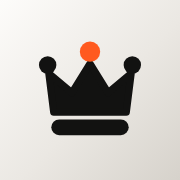
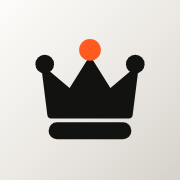
Biểu tượng app vương miện khi cài web ra màn hình chính
- Thêm manifest.webmanifest: tên, mở toàn màn hình, biểu tượng PNG 192/512 và bản maskable cho Android
- Vẽ lại apple-touch-icon và các icon PNG từ cùng logo R3 bằng tools/icons/make-icons.mjs
- index.html gắn link manifest

Claude-Session: https://claude.ai/code/session_016UE9k7bYwaue346gRykVDW

diff --git a/index.html b/index.html
@@ -9,6 +9,8 @@
     <meta name="theme-color" content="#b6b2ab" />
     <link rel="icon" type="image/svg+xml" href="/favicon.svg" />
     <link rel="apple-touch-icon" href="/apple-touch-icon.png" />
+    <!-- Khai báo "app" cho nút Cài đặt / Thêm vào màn hình chính: tên, biểu tượng PNG, mở toàn màn hình. -->
+    <link rel="manifest" href="/manifest.webmanifest" />
     <link rel="preconnect" href="https://fonts.googleapis.com" />
     <link rel="preconnect" href="https://fonts.gstatic.com" crossorigin />
     <link
